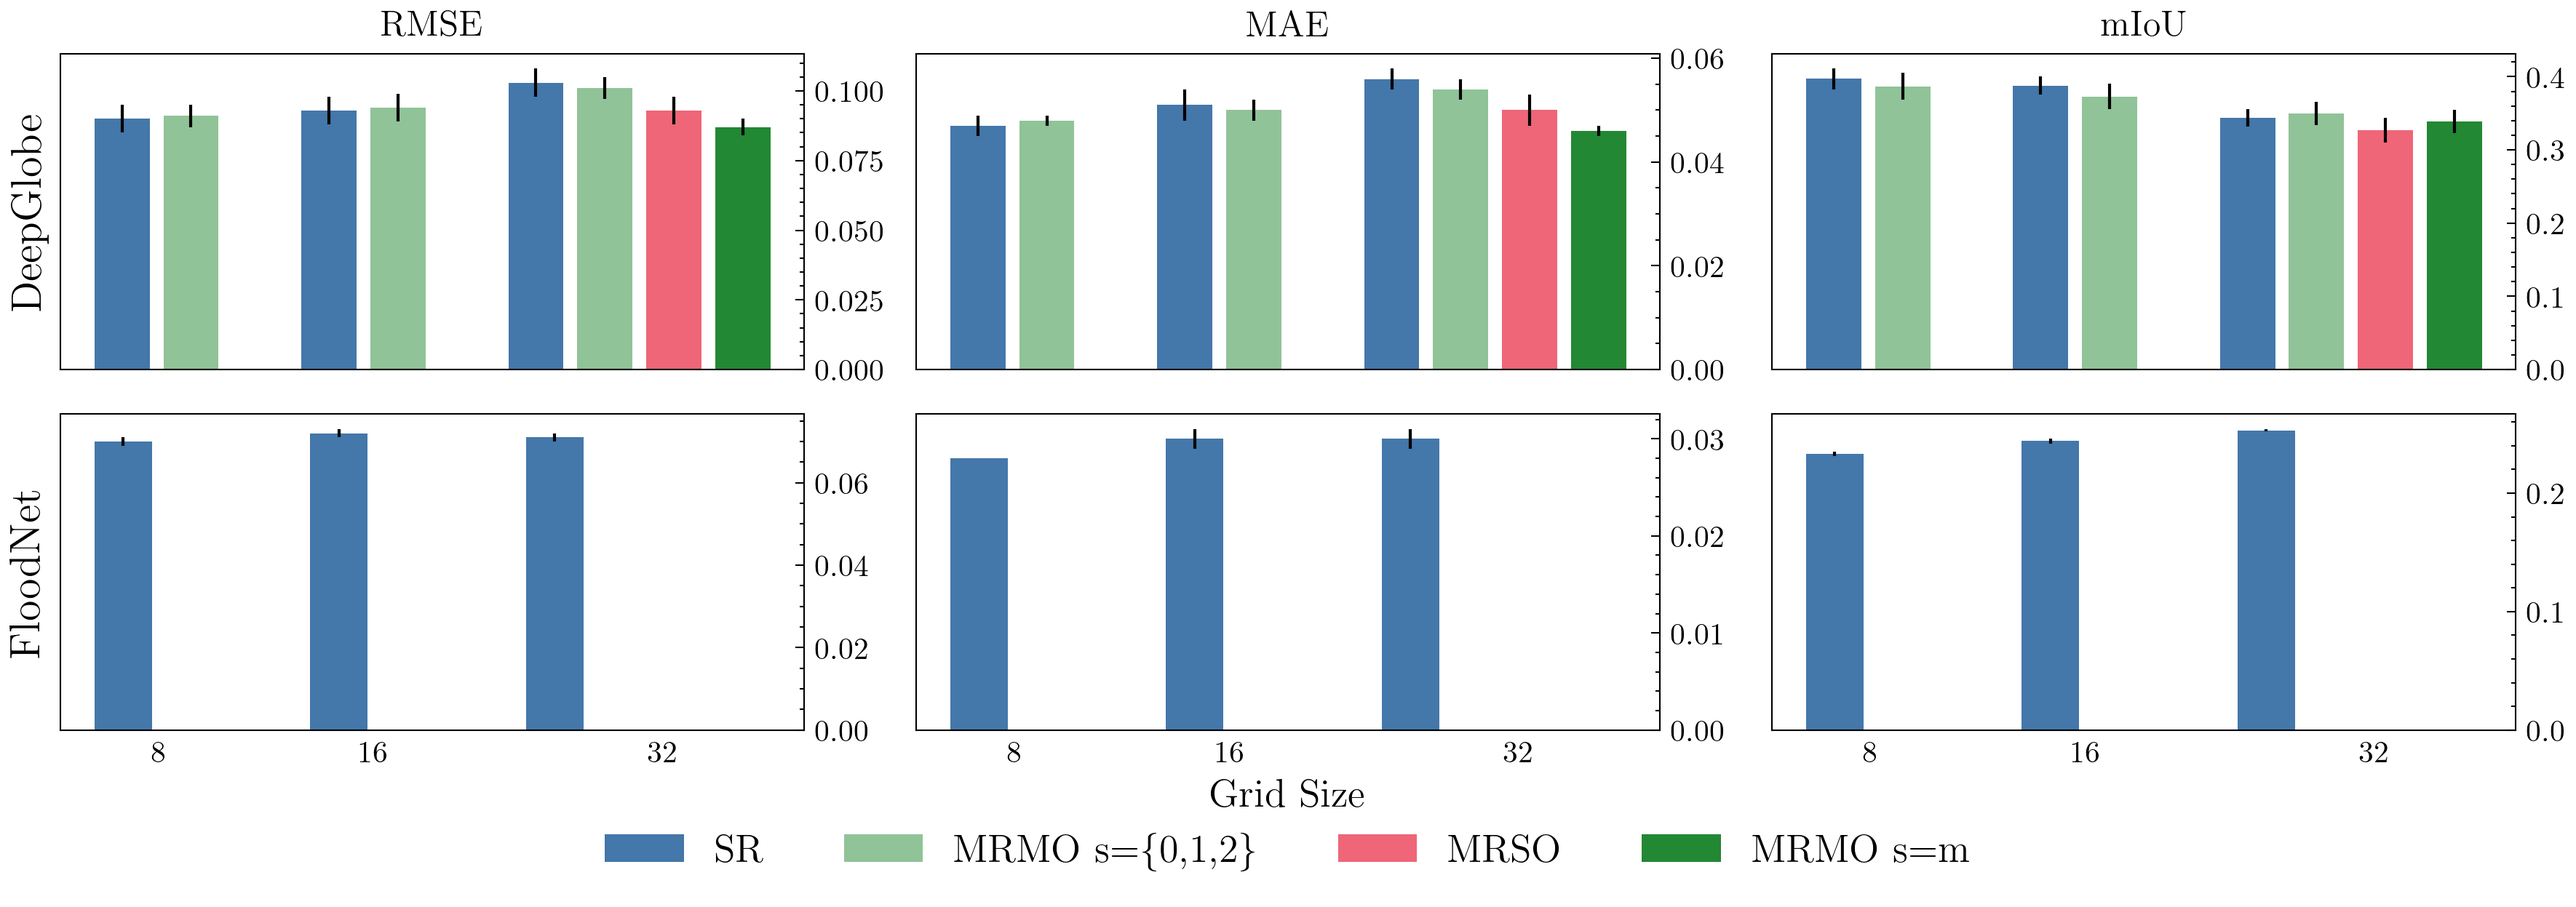
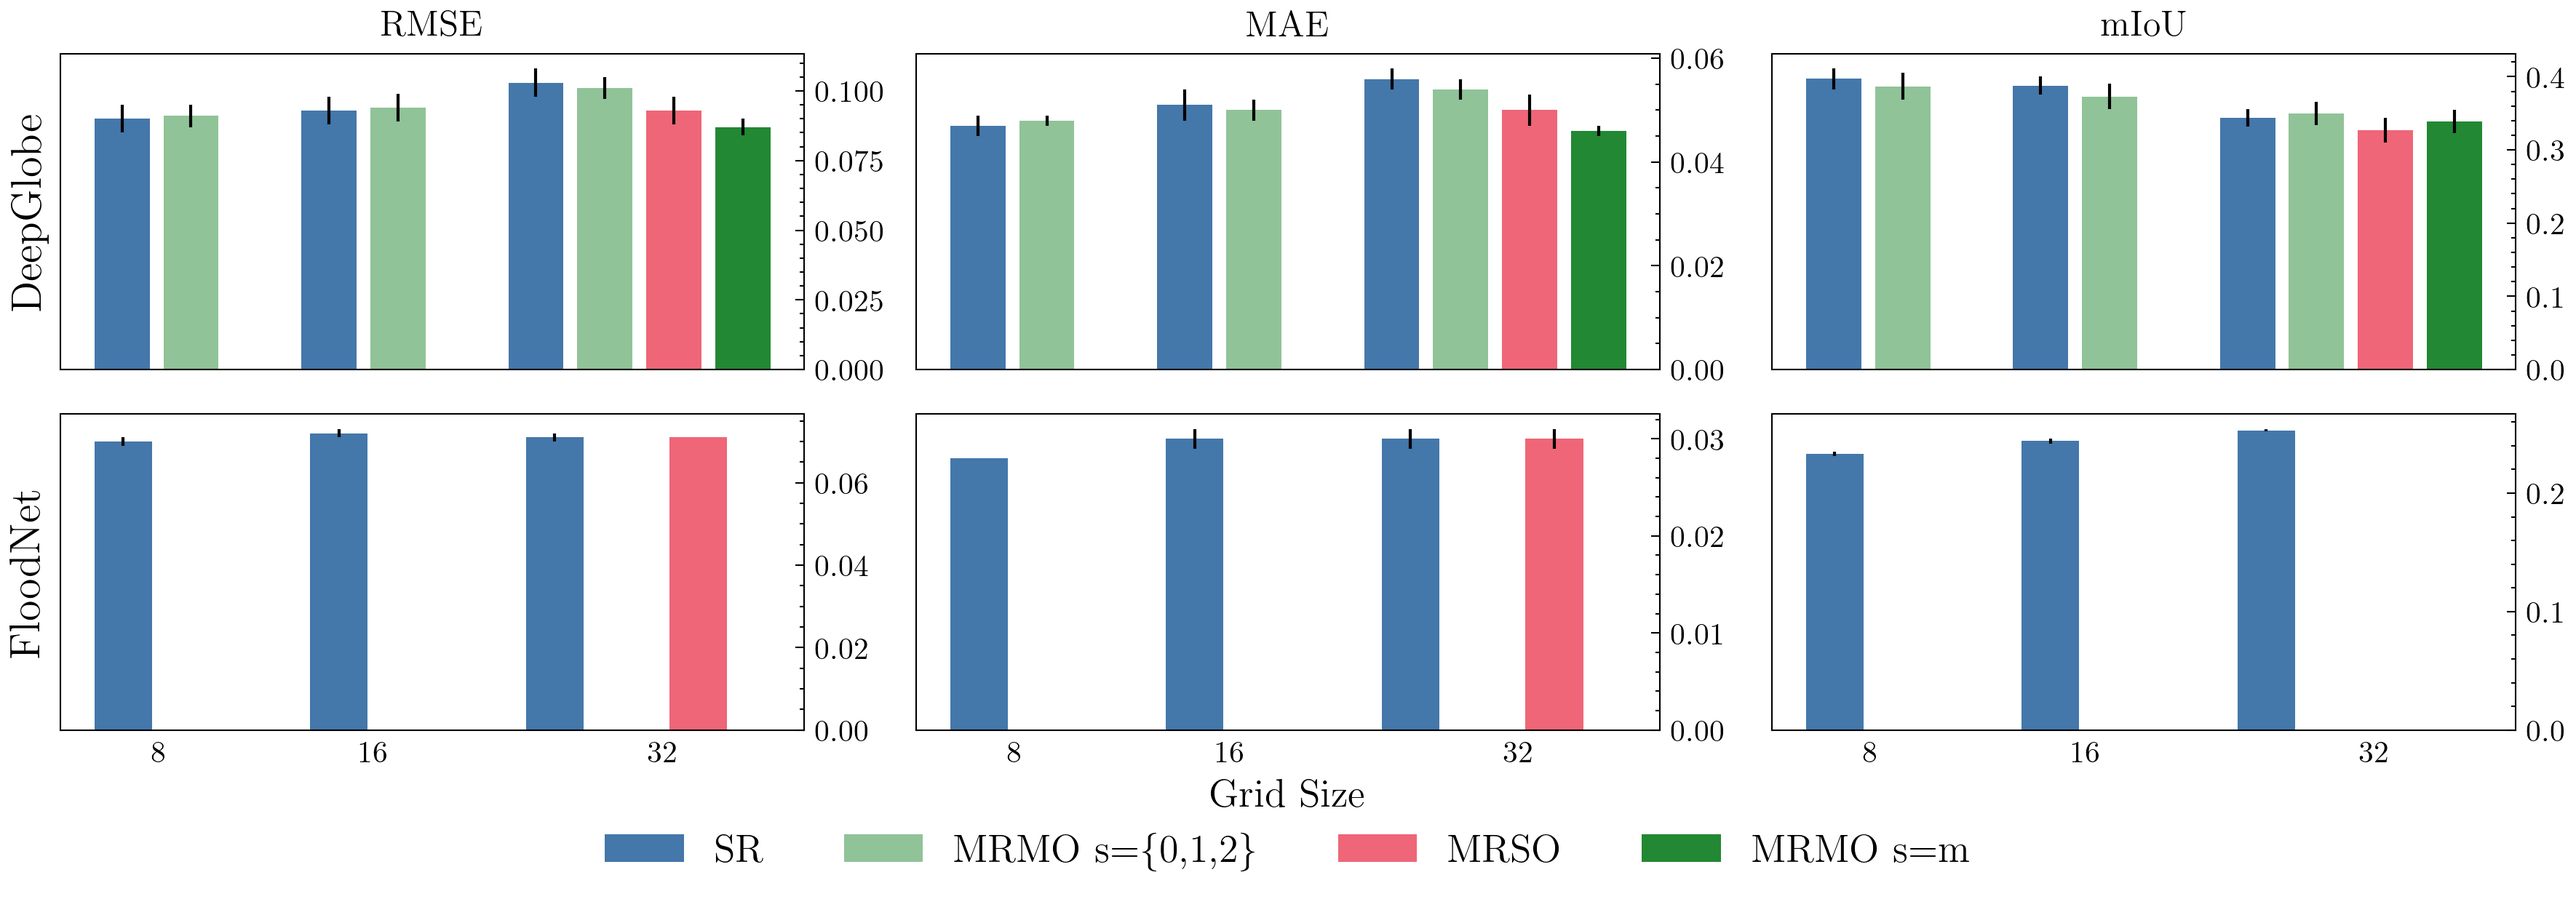
Setup evaluation for floodnet MRSO.

Changed region(s): [[0.5904, 0.4571, 0.6215, 0.8228], [0.2486, 0.4571, 0.2797, 0.8228]]

diff --git a/src/floodnet/floodnet_dataset.py b/src/floodnet/floodnet_dataset.py
@@ -404,11 +404,15 @@ class FloodNetDatasetMultiResSingleOut(FloodNetDataset):
     @classmethod
     @overrides
     def load_bags(cls, split):
-        # Replace default instance targets with smallest patch size (scale=m)
         bags, targets, _, bags_metadata = super().load_bags(split)
         metadata_df = _load_metadata_df()
         split_df = metadata_df[metadata_df['split'] == split]
-        instance_targets = cls._parse_instance_targets(split_df, cell_size_x=500)
+        # Replace default instance targets with smallest patch size (scale=m)
+        instance_targets = cls._parse_instance_targets(split_df, cell_size_x=125)
+        # Replace default metadata with correct spec for small patch size (scale=m)
+        for m in bags_metadata:
+            m['grid_size_x'] = 32
+            m['grid_size_y'] = 24
         return bags, targets, instance_targets, bags_metadata
 
 

diff --git a/scripts/produce_summary_plots.py b/scripts/produce_summary_plots.py
@@ -13,7 +13,7 @@ plt.style.use(['science', 'bright'])
 def run():
     plotter = ResultsPlotter()
     plotter.plot_grid_size_vs_performance()
-    # plotter.plot_model_size_vs_performance()
+    plotter.plot_model_size_vs_performance()
 
 
 class ResultsPlotter:
